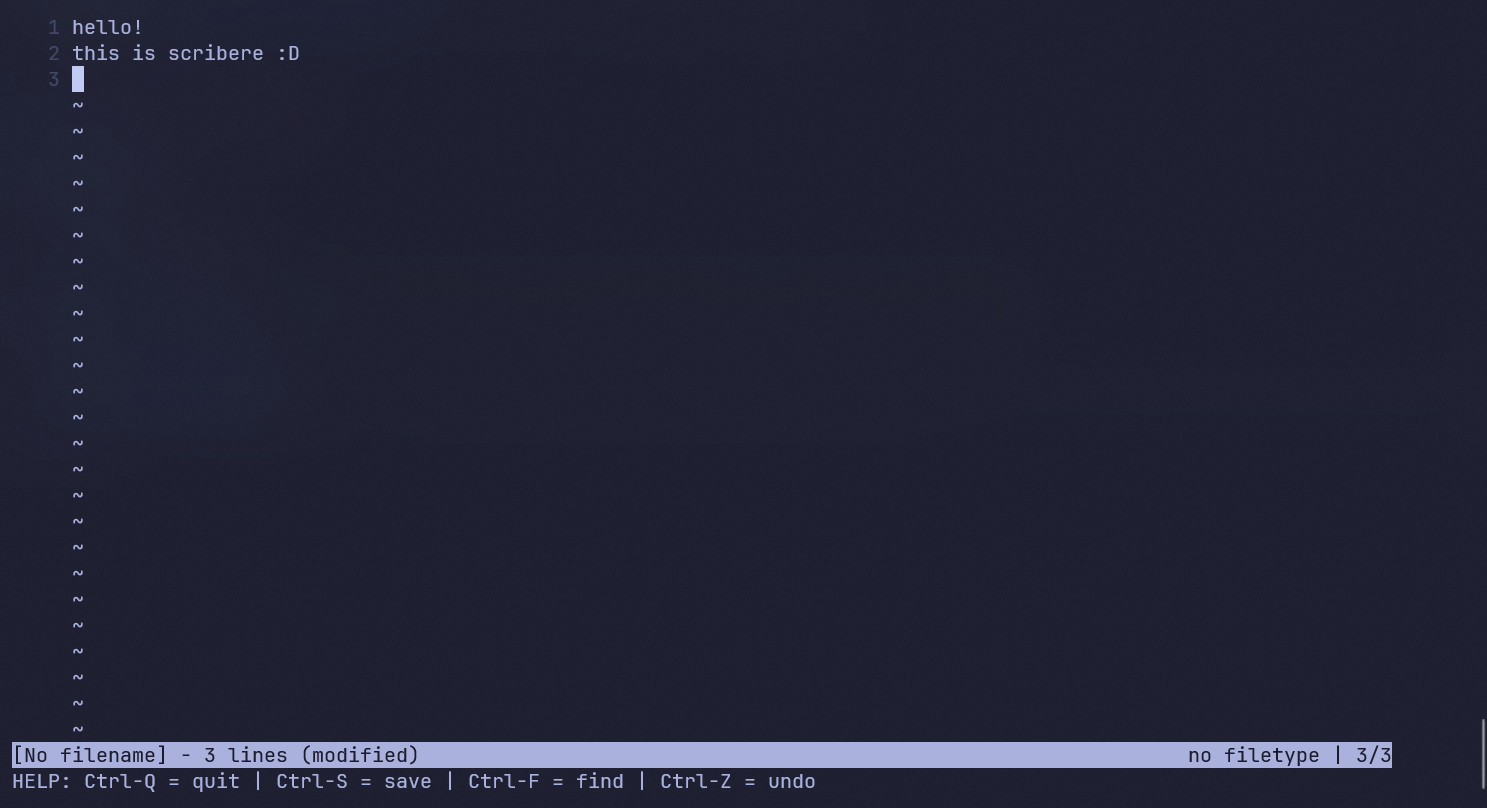
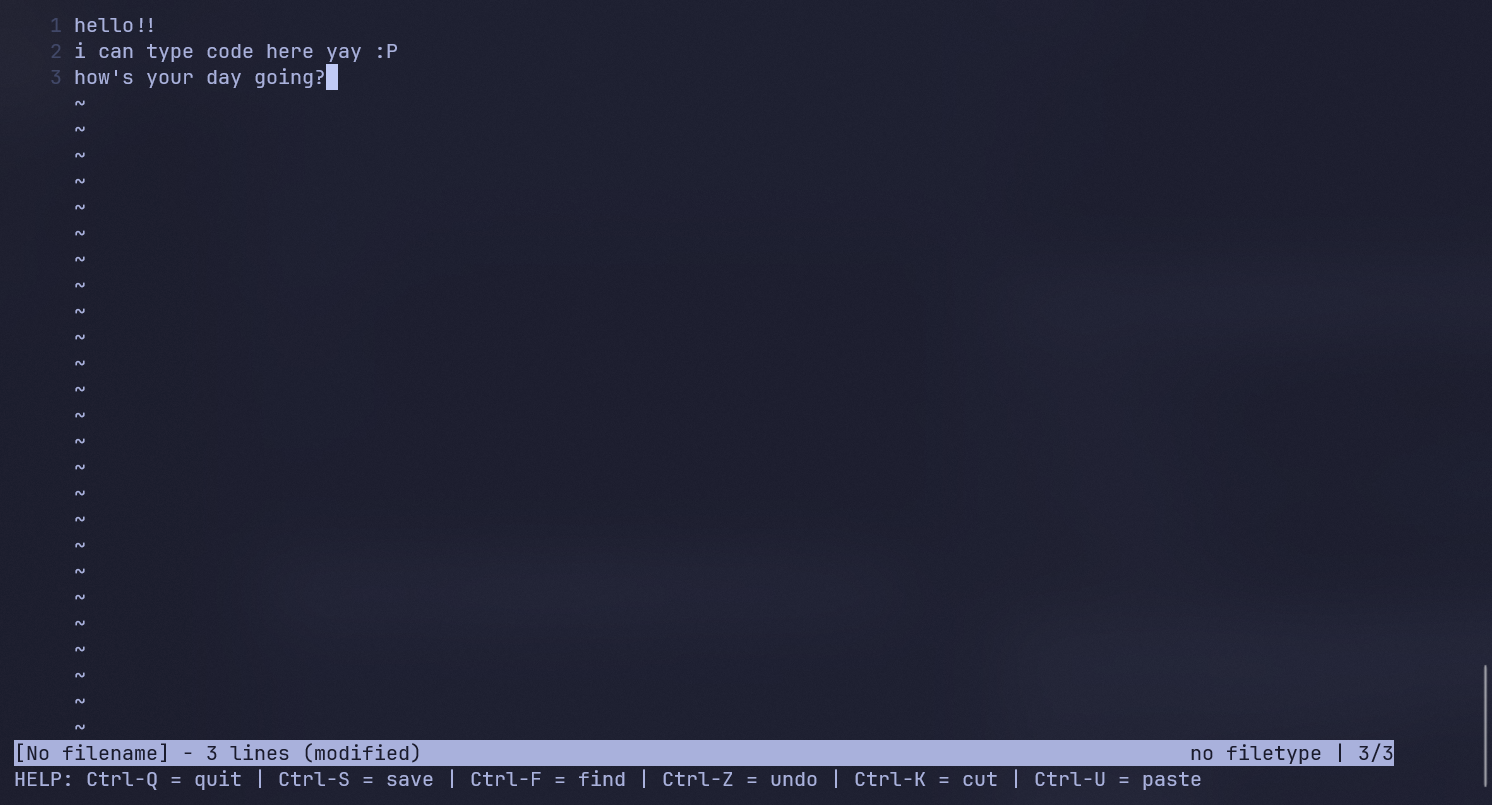
Update README.md

diff --git a/README.md b/README.md
@@ -2,37 +2,29 @@
 
 ## <div align='center'>Scribere</div>
 
-<div align='center'> A terminal code editor which is <em>fast</em> and <em>lightweight</em></div>
+<div align='center'> A terminal code editor that is simple and lightweight</div>
 
 
 ## Overview
 
-It is a text editor i made using the kilo guide and i am currently adding my own features to it.
+Code editor similar to vim or nano but made by me.
 
-It is made using c so it is very lightweight (currently ~55kb)
+It is made using c so the filesize is very less (currently ~55kb)
+
+It is made using the kilo guide but with tons of more features.
 
 Fun fact: Scribere means *"to write"* in latin
 
 
 ## Features
 
-- You can undo your changes using Ctrl-Z.
-- You can find text within the file using Ctrl-F.
+- You can undo your changes.
+- You can find text within the file.
 - Warning system which warns if you have any unsaved changes.
-- <b>Syntax highlighting</b> and filetype detection so it looks like a code editor. 
-- Currently filetype detection and syntax highlighting only supports the following filetypes:- 
+- <b>Syntax highlighting</b> and filetype detection. 
+- Currently syntax highlighting and filetype detection only supports the following filetypes:- 
   C, Python, Javascript, Go, Rust, Java, Bash, Yaml, Json, Makefile, Dockerfile, Gitignore
-  (Create an Issue if you need any other language)
-- Copy and paste things inside the terminal as you like but u can only copy and paste within the terminal.
-
-
-## Getting started
-
-\*Work in progress\* but if you want to try it, fork the repository and run `./scribere` in the location of the directory for creating an empty file and `./scribere "file-location"` for modifying an existing file.
-
-## Goals
-
-- [ ] Allow us to copy and paste things into the terminal
+- Copy and paste things inside the terminal as you like but u can only copy and paste things within the terminal.
 
 ## Images
 
@@ -40,6 +32,43 @@ Fun fact: Scribere means *"to write"* in latin
 ![screenshot-2](./media/screenshot-2.png)
 ![screenshot-2](./media/screenshot-3.png)
 \*The terminal might look different from screenshots because i modified the look of my powershell terminal.\*
+
+
+## Getting started
+
+Works in Linux / MacOS / Windows (Only WSL)
+I have already compiled and built the app but if you want to the build it yourself, do the following:-
+
+- ### Clone
+  `git clone https://github.com/bys-exe/scribere.git`
+  `cd scribere`
+  
+- ### Build
+  run `make` in the directory
+  or
+  `gcc -o scribere scribere.c -Wall -Wextra` 
+  
+  (<em>-o is to set the name of the output file and -Wall and -Wextra are used to enable all warnings</em>)
+
+- ### Run
+  type `./scribere filename.c` for opening a file
+  or
+  type `./scribere` for opening an empty file
+
+## Keybinds
+
+| Keybind | Action |
+| :---: | :---: |
+| Ctrl-S | Save |
+| Ctrl-Q | Quit* |
+| Ctrl-F | Find |
+| Ctrl-Z | Undo |
+| Ctrl-K | Cut line |
+| Ctrl-U | Paste |
+| Arrow Keys | Move cursor |
+| Page Up/Down | Scroll |
+
+  *You have to press the keybind three times to quit with unsaved changes
 
 ## References
 
